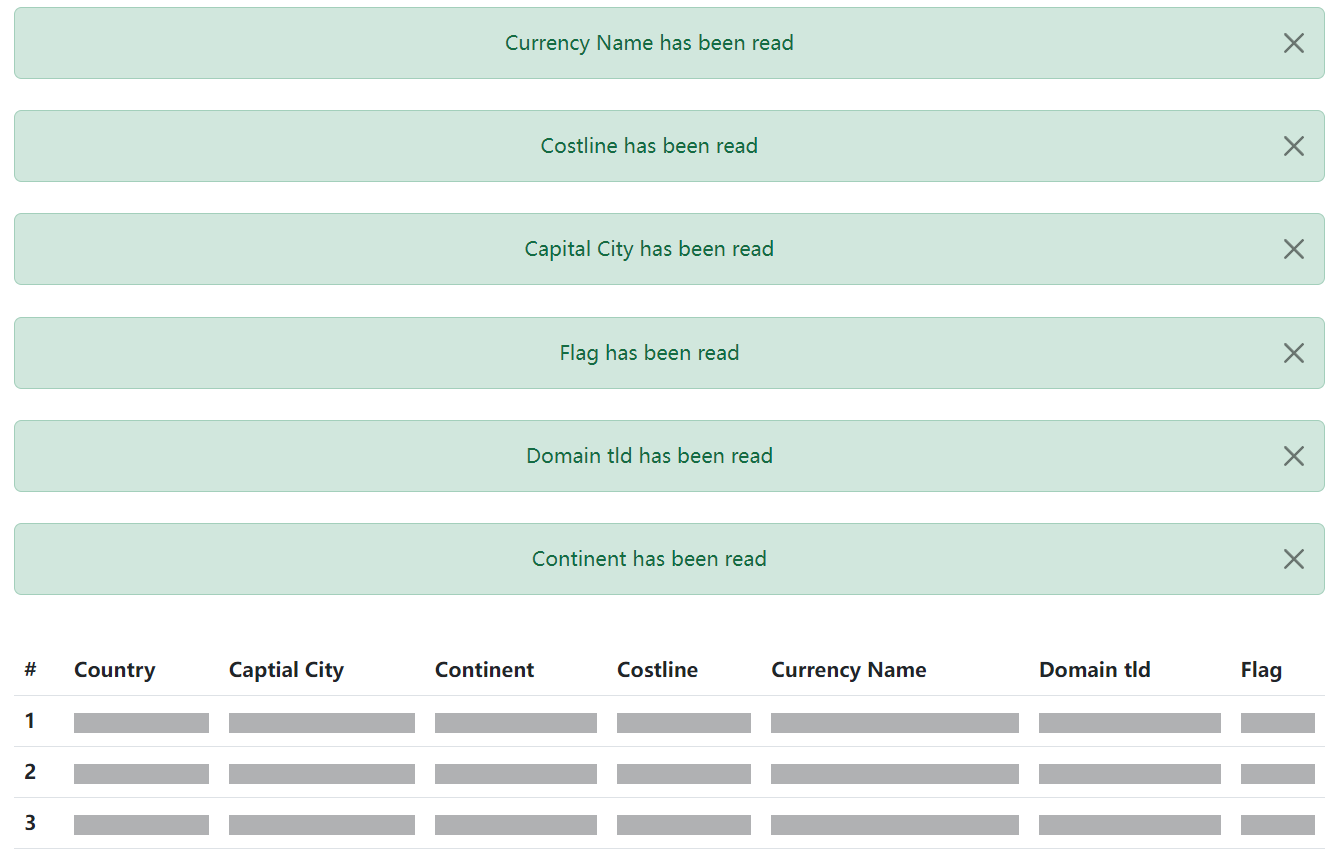
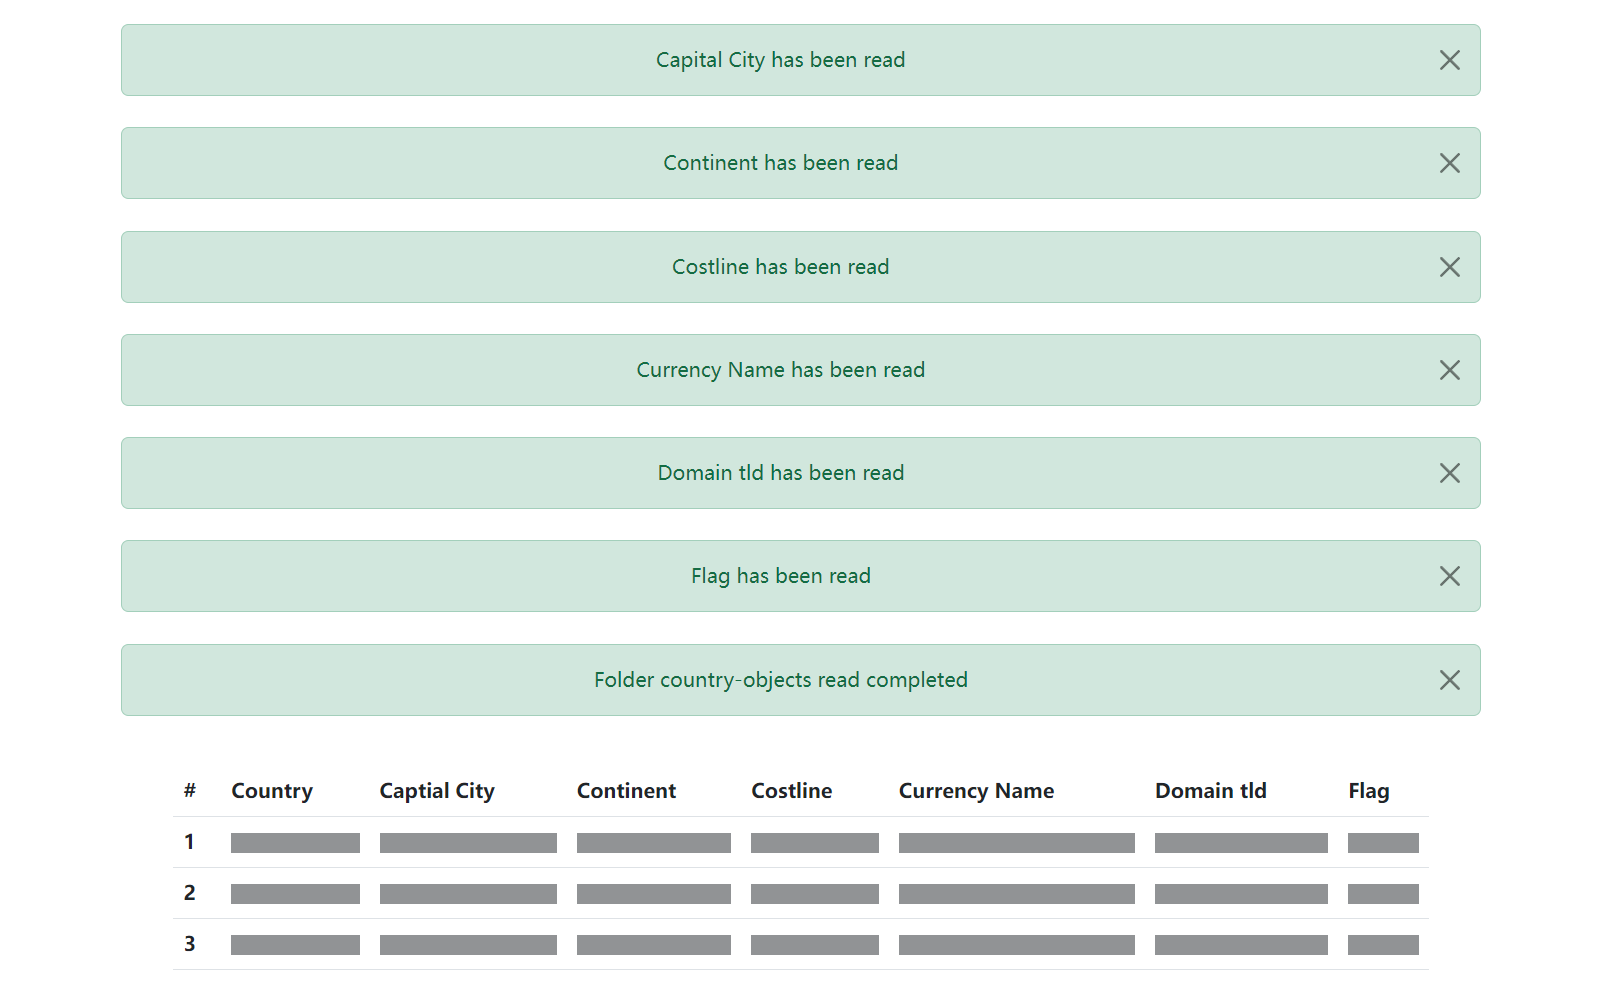
Minor fix

diff --git a/index.js b/index.js
@@ -43,35 +43,42 @@ function loadTable() {
         flag = $.getJSON("./country-objects/country-by-flag.json", "", function(flag) {
             alert('Flag has been read', 'success')
         });
-        
+
         // wait for ajax request
         $.when(capital && continent && costline && currency && domain && flag).done(function() {
-            // merge JSON data
-            firstMerge = mergeJSON(capital.responseJSON, continent.responseJSON, "country")
-            secondMerge = mergeJSON(firstMerge, costline.responseJSON, "country")
-            thirdMerge = mergeJSON(secondMerge, currency.responseJSON, "country")
-            forthMerge = mergeJSON(thirdMerge, domain.responseJSON, "country")
-            finalMerge = mergeJSON(forthMerge, flag.responseJSON, "country")
-           
-            // create table
-            createTable(finalMerge, 20)
-
+            // show the folder read completed
+            alert('Folder country-objects read completed', 'success')
+        
+            // wait 5 seconds to indicate files and folder read, and generate the table
             setTimeout(() => {
-                // display or hide row button, table, table place holder and change button text
-                $('#liveAlertPlaceholder').empty()
-                $("#countryButton").removeClass("visually-hidden")
-                $("#countryTableContainer").removeClass("visually-hidden")
-                $("#tableHolder").addClass("visually-hidden")
-
-                stop() // stop timer
-
-                // alert message for how much time table has been created
-                alert('The table has been created and has taken ' + hour + ' hour ' + minute + ' minute ' + second + ' second ' + millisecond + ' millisecond', 'success')
+                $.when(capital && continent && costline && currency && domain && flag).done(function() {
+                    // merge JSON data
+                    firstMerge = mergeJSON(capital.responseJSON, continent.responseJSON, "country")
+                    secondMerge = mergeJSON(firstMerge, costline.responseJSON, "country")
+                    thirdMerge = mergeJSON(secondMerge, currency.responseJSON, "country")
+                    forthMerge = mergeJSON(thirdMerge, domain.responseJSON, "country")
+                    finalMerge = mergeJSON(forthMerge, flag.responseJSON, "country")
                 
-                // reset timer
-                reset()
-                hour = minute = second = millisecond = 0
-            }, 3000)
+                    // create table
+                    createTable(finalMerge, 20)
+
+                    // display or hide row button, table, table place holder and change button text
+                    $('#liveAlertPlaceholder').empty()
+                    $("#countryButton").removeClass("visually-hidden")
+                    $("#countryTableContainer").removeClass("visually-hidden")
+                    $("#tableHolder").addClass("visually-hidden")
+
+                    // stop timer
+                    stop()
+
+                    // alert message for how much time table has been created
+                    alert('The table has been created(include files reading time) in ' + hour + ' hour ' + minute + ' minute ' + second + ' second ' + millisecond + ' millisecond', 'success')
+                    
+                    // reset timer
+                    reset()
+                    hour = minute = second = millisecond = 0
+                })
+            }, 5000)
         })
     }else {
         // change button text and empty the notification
